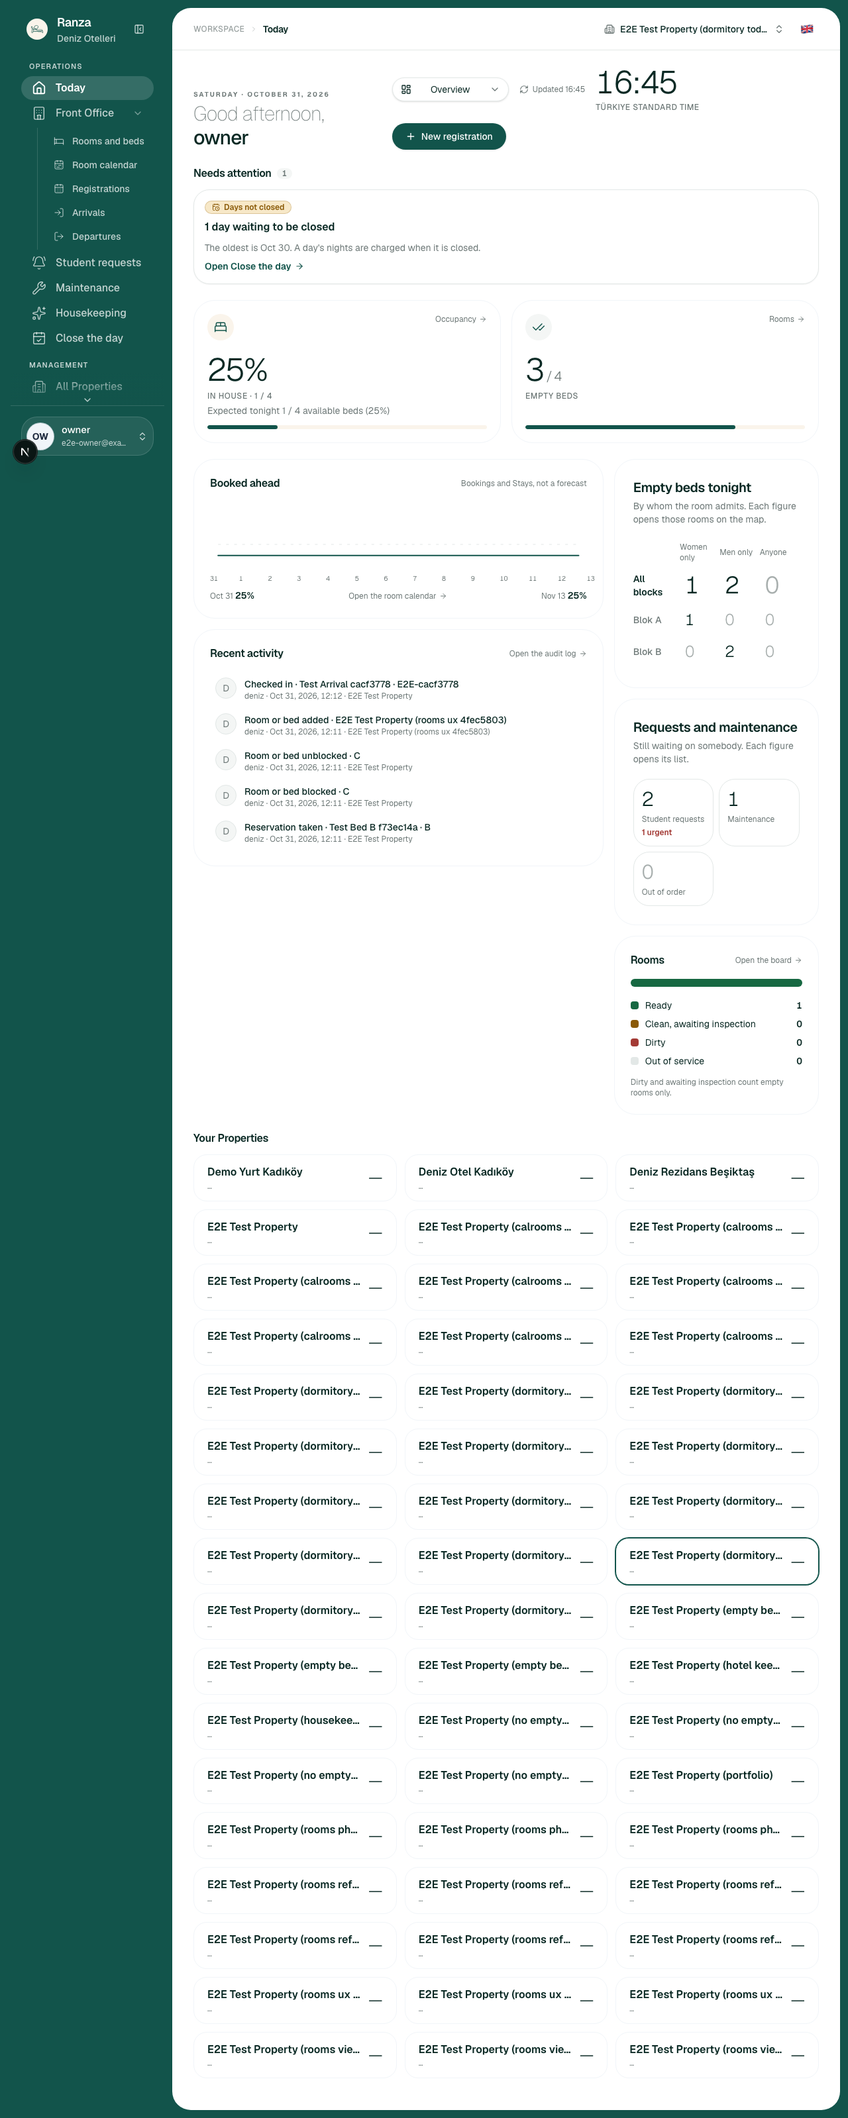
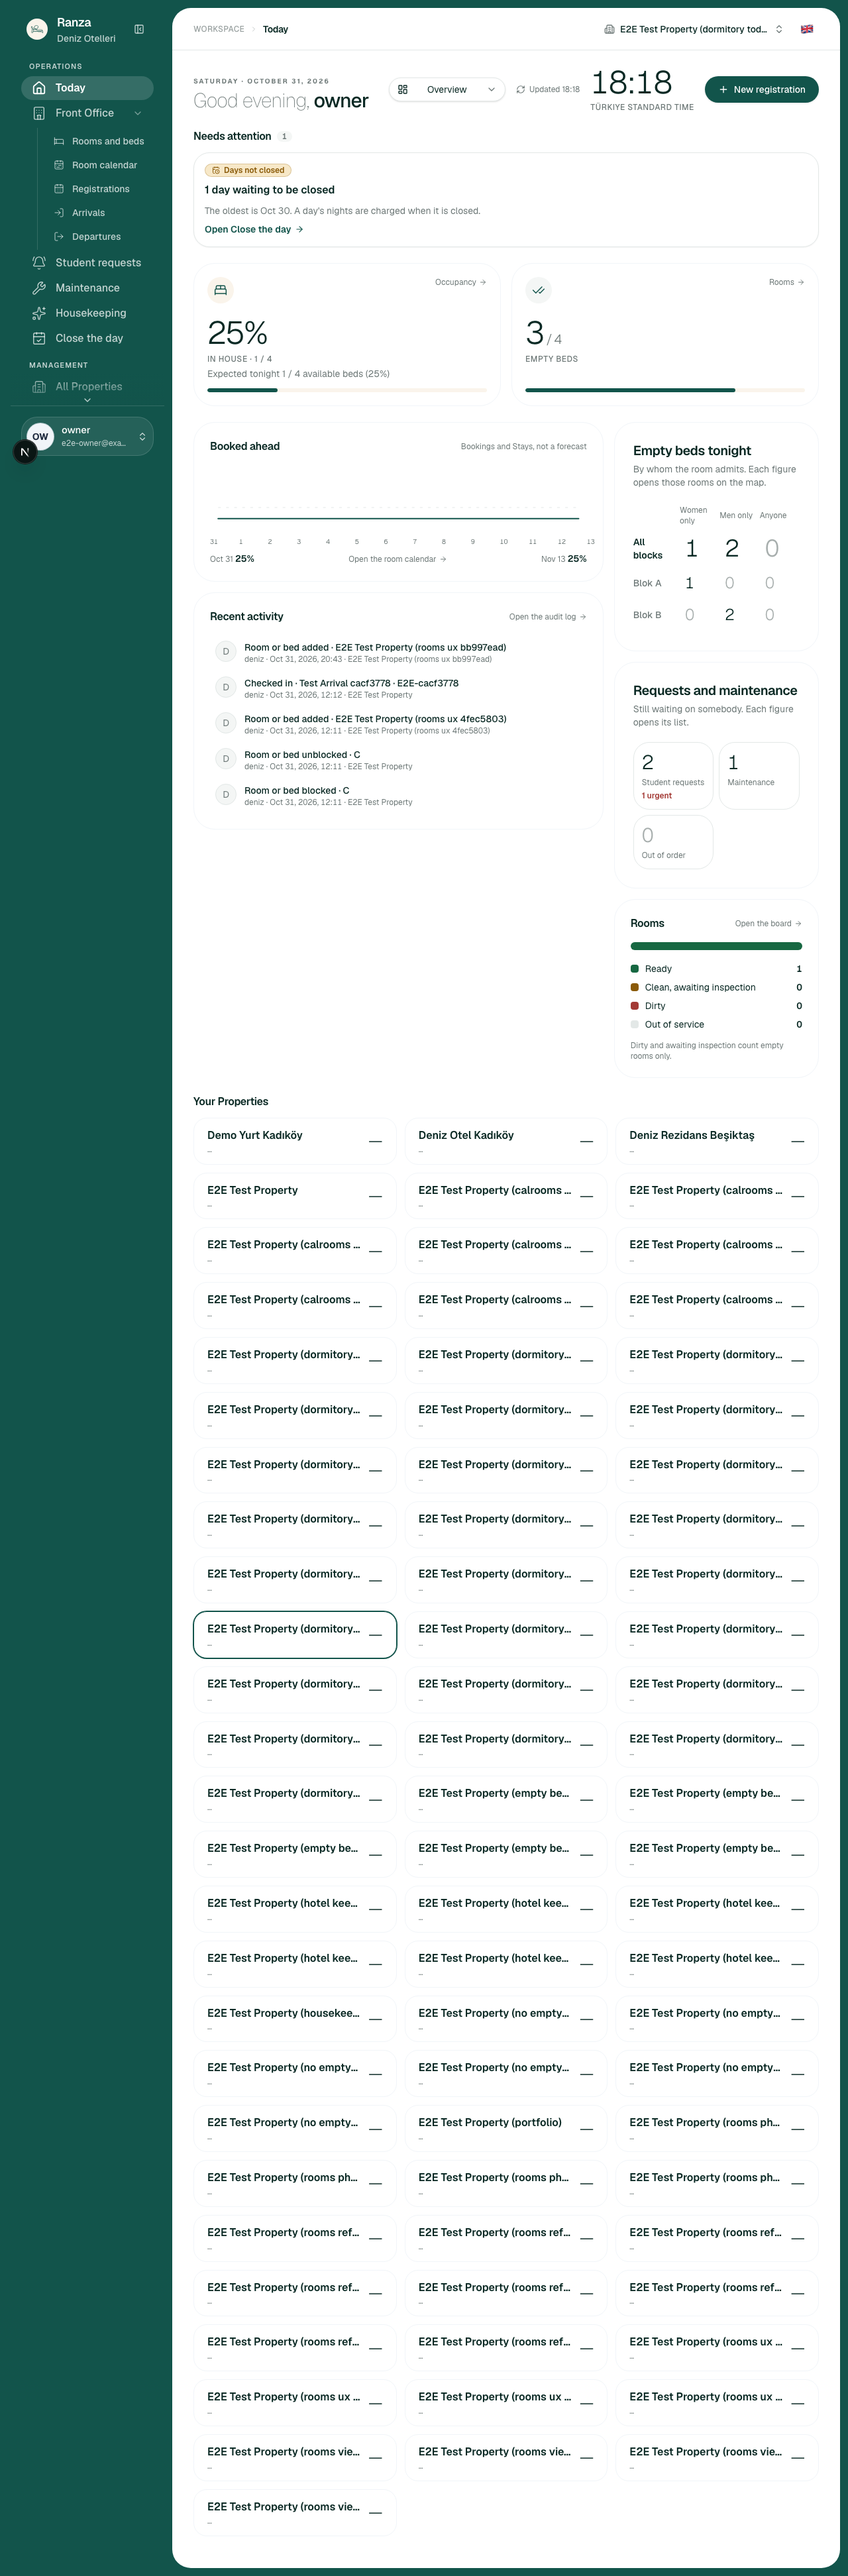
fix(today): Do these next points only at departures that are drawn, and the Rooms chips fit
- the Do these next card said "Departures are listed above" on a dormitory
  Today that draws no departures when none are due; it now says so only when
  a departures figure or list is above it (Turkish, English, Arabic)
- the Rooms card's state chips sat in two fixed columns, so "Clean, awaiting
  inspection" was cut off and ran into the next chip; the cells now wrap to a
  single column where the card is narrow. The same card is the hotel's, so a
  hotel gains the fix and nothing else
- the browser spec asserts no chip is clipped, spills out of its cell or
  touches its count in all three languages, and was seen red with the old grid
- rows TD-S10-13 and TD-S10-14; the open work card's third figure is rooms
  out of order (the earlier docs called it "in hand"), corrected in the rows
- the screenshots are retaken with the fixes

diff --git a/tests/browser/dormitory-today.spec.ts b/tests/browser/dormitory-today.spec.ts
@@ -48,6 +48,32 @@ async function drawTodayAs(page: Page, layout: TodayLayout): Promise<void> {
 }
 
 /**
+ * No state chip of the Rooms card is cut off, spills out of its own cell, or
+ * runs into the count beside it, in the language the page is drawn in.
+ */
+async function expectNoChipClipped(page: Page, card: string): Promise<void> {
+  const cramped = await page
+    .getByRole("region", { name: card, exact: true })
+    .locator("ul li")
+    .evaluateAll((cells) =>
+      cells.flatMap((cell) => {
+        const chip = cell.firstElementChild;
+        const count = cell.lastElementChild;
+        if (!chip || !count) return [cell.textContent];
+        const room = cell.getBoundingClientRect();
+        const label = chip.getBoundingClientRect();
+        const number = count.getBoundingClientRect();
+        const cut = chip.scrollWidth > chip.clientWidth;
+        const outside =
+          label.left < room.left - 1 || label.right > room.right + 1;
+        const touching = label.left < number.right && number.left < label.right;
+        return cut || outside || touching ? [chip.textContent] : [];
+      }),
+    );
+  expect(cramped).toEqual([]);
+}
+
+/**
  * Two blocks let by the bed, no arrival or departure today: a Student in one of
  * Block A's two beds, two requests (one urgent) and one maintenance request.
  */
@@ -186,6 +212,7 @@ test("a dormitory's Today answers by block, shows what is open, and draws no emp
   await expect(
     open.getByRole("link", { name: "1 open maintenance request" }),
   ).toBeVisible();
+  await expectNoChipClipped(page, "Rooms");
   await page.screenshot({
     path: path.join(EVIDENCE, "timeline-en.png"),
     fullPage: true,
@@ -256,6 +283,7 @@ test("the dormitory's Today reads in Turkish and in Arabic, mirrored", async ({
   await expect(
     page.getByRole("region", { name: "Talepler ve bakım" }),
   ).toBeVisible();
+  await expectNoChipClipped(page, "Odalar");
   await page.screenshot({
     path: path.join(EVIDENCE, "timeline-tr.png"),
     fullPage: true,
@@ -269,6 +297,7 @@ test("the dormitory's Today reads in Turkish and in Arabic, mirrored", async ({
   await expect(
     page.getByRole("region", { name: "الطلبات والصيانة" }),
   ).toBeVisible();
+  await expectNoChipClipped(page, "الغرف");
   await page.screenshot({
     path: path.join(EVIDENCE, "timeline-ar.png"),
     fullPage: true,

diff --git a/tests/unit/today-layouts.test.tsx b/tests/unit/today-layouts.test.tsx
@@ -1268,6 +1268,45 @@ describe("a dormitory's Today (RANZ-108)", () => {
     expect(screen.getByRole("heading", { name: "Today's flow" })).toBeVisible();
   });
 
+  it("do_these_next_points_at_the_departures_only_when_they_are_drawn_above", () => {
+    const lines = {
+      en: "Departures are listed above.",
+      tr: "Çıkışlar yukarıda listelenir.",
+      ar: "المغادرات مذكورة أعلاه.",
+    } as const;
+    for (const locale of ["en", "tr", "ar"] as const) {
+      const quiet = view(quietDay("dormitory"), { locale });
+      expect(screen.queryByText(new RegExp(lines[locale]))).toBeNull();
+      expect(
+        screen.getByText(
+          messages[locale].todayLayouts.doNow.subWithoutDepartures,
+        ),
+      ).toBeVisible();
+      quiet.unmount();
+    }
+
+    const day = quietDay("dormitory");
+    if (day.desk?.status !== "ok") throw new Error("fixture has a desk");
+    view(
+      {
+        ...day,
+        desk: {
+          status: "ok",
+          data: {
+            ...day.desk.data,
+            departures: [leaving("Kaya", "103", true)],
+          },
+        },
+      },
+      { locale: "en" },
+    );
+    expect(screen.getByText(new RegExp(lines.en))).toBeVisible();
+    cleanup();
+
+    view(quietDay("hotel"));
+    expect(screen.getByText(new RegExp(lines.en))).toBeVisible();
+  });
+
   it("counts_empty_beds_where_a_hotel_counts_rooms_ready_to_sell_in_the_dormitorys_words", () => {
     view(quietDay("dormitory"));
     expect(

diff --git a/apps/operator-workspace/src/features/today/layouts/messages.ts b/apps/operator-workspace/src/features/today/layouts/messages.ts
@@ -100,6 +100,7 @@ const en = {
   doNow: {
     title: "Do these next",
     sub: "Arrivals and rooms, most urgent first. Departures are listed above.",
+    subWithoutDepartures: "Arrivals and rooms, most urgent first.",
     empty: "No arrival or room needs you.",
     emptyDepartures:
       "No arrival or room needs you. The departures above are what is open.",
@@ -374,6 +375,7 @@ const tr: TodayLayoutsMessages = {
   doNow: {
     title: "Sıradaki işler",
     sub: "Gelişler ve odalar, en acil olan başta. Çıkışlar yukarıda listelenir.",
+    subWithoutDepartures: "Gelişler ve odalar, en acil olan başta.",
     empty: "Sizi bekleyen bir geliş ya da oda yok.",
     emptyDepartures:
       "Sizi bekleyen bir geliş ya da oda yok. Açık olan, yukarıdaki çıkışlar.",
@@ -640,6 +642,7 @@ const ar: TodayLayoutsMessages = {
   doNow: {
     title: "افعل هذا تاليًا",
     sub: "الوصول والغرف، الأكثر إلحاحًا أولًا. المغادرات مذكورة أعلاه.",
+    subWithoutDepartures: "الوصول والغرف، الأكثر إلحاحًا أولًا.",
     empty: "لا وصول ولا غرفة تحتاجك.",
     emptyDepartures: "لا وصول ولا غرفة تحتاجك. المفتوح هو المغادرات أعلاه.",
     group: {

diff --git a/apps/operator-workspace/src/features/today/layouts/do-now.tsx b/apps/operator-workspace/src/features/today/layouts/do-now.tsx
@@ -58,10 +58,13 @@ interface Shared {
  */
 export function DoNow({
   actions,
+  departuresAbove,
   overdueAbove,
   ...shared
 }: Shared & {
   actions: readonly DeskAction[];
+  /** Whether a departures figure or list is drawn above, for the line to point at. */
+  departuresAbove: boolean;
   /** Guests overdue to leave, listed above this card rather than in it. */
   overdueAbove: number;
 }) {
@@ -103,7 +106,7 @@ export function DoNow({
           {t("doNow.title")}
         </h2>
         <p className="mt-1 mb-4 text-sm text-muted-foreground">
-          {t("doNow.sub")}
+          {t(departuresAbove ? "doNow.sub" : "doNow.subWithoutDepartures")}
         </p>
         {actions.length === 0 ? (
           <p className="rounded-2xl bg-muted px-5 py-4 text-sm text-muted-foreground">

diff --git a/apps/operator-workspace/src/features/today/layouts/side-cards.tsx b/apps/operator-workspace/src/features/today/layouts/side-cards.tsx
@@ -63,7 +63,7 @@ export function RoomsBar({
           />
         ))}
       </div>
-      <ul className="grid grid-cols-2 gap-x-6 gap-y-2">
+      <ul className="grid grid-cols-[repeat(auto-fit,minmax(min(100%,15rem),1fr))] gap-x-6 gap-y-2">
         {STATE_ORDER.map((state) => (
           <li
             className="flex items-center justify-between gap-2 text-sm"

diff --git a/apps/operator-workspace/src/features/today/layouts/timeline-layout.tsx b/apps/operator-workspace/src/features/today/layouts/timeline-layout.tsx
@@ -129,6 +129,7 @@ export function TimelineLayout(props: LayoutProps) {
       actions={actions}
       changed={changed}
       currency={summary.day.currency}
+      departuresAbove={!quiet.departures}
       desk={desk}
       locale={locale}
       overdueAbove={departureCounts(desk).overdue}

diff --git a/docs/features/today-dashboard/README.md b/docs/features/today-dashboard/README.md
@@ -26,7 +26,7 @@ No person was available to grill, so each question carries the recommendation
 built on. All rows are `proposed`.
 
 1. **Does the open work card sit beside the hotel's Maintenance card or replace
-   it?** Replace it at a dormitory. The same open and in-hand counts would
+   it?** Replace it at a dormitory. The same open and out-of-order counts would
    otherwise be drawn twice under two names. Common sense for the reader; no
    comparable system was checked (TD-S10-05).
 2. **Is the maintenance figure "Faults"?** No: it counts every open
